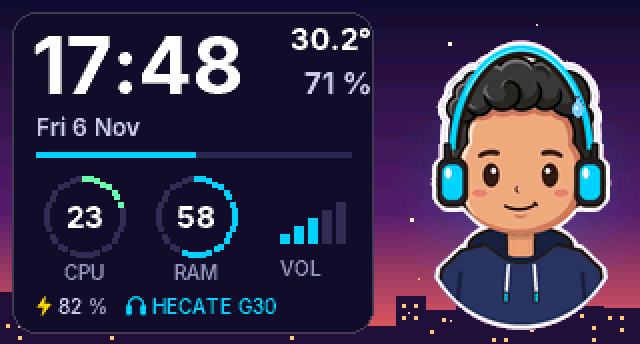
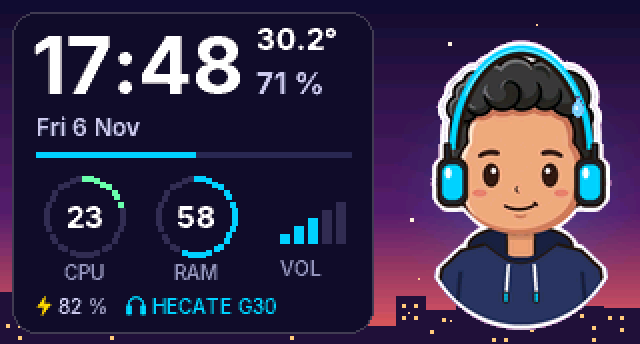
Phase 14-bis.4 : scène normale, température et humidité collées à l'heure
Le bloc se cale juste après l'heure réelle (largeur de f_heure, 81 à 121 px selon les chiffres), garde 12 px de marge avant le bord droit de la carte (x = 185) et prend la plus grande police qui tient (f_m, sinon f_s, sinon f_xs). Même règle dans les scènes calme et nuit (état de la clim en version courte s'il manque de la place). Banc de rendu : scénarios pire cas (00:00, 31.4°, 100 %, -5.2°) et contrôle de la marge ; 38 aperçus, 0 chevauchement.

Changed region(s): [[0.4062, 0.2035, 0.5938, 0.2907], [0.4062, 0.0581, 0.5938, 0.1453]]

diff --git a/esp/lib/ui.py b/esp/lib/ui.py
@@ -18,6 +18,7 @@ from polices import Police, rgb565
 
 DOSSIER = "assets/"
 W, H = 320, 172
+CARTE_DROITE = 185   # dernier pixel de la carte (fonds générés : carte de x = 7 à 185)
 PERSO_W, PERSO_H = 95, 150
 PERSO_X, PERSO_Y = W - PERSO_W - 12, H - PERSO_H - 6
 CLE = rgb565(255, 0, 255)  # magenta = transparent dans les images
@@ -521,28 +522,37 @@ class Interface:
         return "Room %.1f° • %d %%" % (piece[0], piece[1])
 
     def _coin_clim(self, etat, carte, y=8, discret=False, maintenant=0):
-        """À droite de l'heure : température et humidité de la pièce, en permanence (« --° » sans mesure).
-        discret=True (scènes calme et nuit) : plus petit, avec l'état de la clim en dessous."""
+        """Température et humidité de la pièce juste après l'heure (« --° » sans mesure), en permanence.
+        Le bloc est collé à l'heure réelle (largeur de f_heure) et garde 12 px de marge avant le bord
+        droit de la carte ; on prend la plus grande police qui tient. discret=True (scènes calme et
+        nuit) : plus petit, avec l'état de la clim en dessous (version courte s'il manque de la place)."""
         fb = self.fb
         piece = etat.get("piece")
-        droite = 186
+        lt = time.localtime()
+        heure = "%02d:%02d" % (lt[3], lt[4]) if lt[0] >= 2025 else "--:--"
+        gauche = 16 + self.f_heure.largeur(heure) + 6   # collé à l'heure
+        droite = CARTE_DROITE - 12                      # marge de 12 px au bord droit de la carte
+        temp = ("%.1f°" % piece[0]) if piece else "--°"
+        hum = ("%d %%" % piece[1]) if piece else None
+        polices = (self.f_s, self.f_xs) if discret else (self.f_m, self.f_s, self.f_xs)
+        police = polices[-1]
+        for p in polices:
+            if gauche + max(p.largeur(temp), p.largeur(hum) if hum else 0) <= droite:
+                police = p
+                break
+        ligne = y + 2
+        police.ecrire(fb, temp, gauche, ligne, DOUX if (piece and discret) else (BLANC if piece else GRIS), carte)
+        ligne += police.hauteur + 3
+        if hum:
+            police.ecrire(fb, hum, gauche, ligne, GRIS if discret else DOUX, carte)
+            ligne += police.hauteur + 3
         if not discret:
-            texte = ("%.1f°" % piece[0]) if piece else "--°"
-            self.f_m.ecrire(fb, texte, droite - self.f_m.largeur(texte), y + 2,
-                            BLANC if piece else GRIS, carte)
-            if piece:
-                texte = "%d %%" % piece[1]
-                self.f_m.ecrire(fb, texte, droite - self.f_m.largeur(texte), y + 24, DOUX, carte)
             return
-        texte = ("%.1f°" % piece[0]) if piece else "--°"
-        self.f_s.ecrire(fb, texte, droite - self.f_s.largeur(texte), y + 2, DOUX if piece else GRIS, carte)
-        if piece:
-            texte = "%d %%" % piece[1]
-            self.f_xs.ecrire(fb, texte, droite - self.f_xs.largeur(texte), y + 19, GRIS, carte)
         ac = self._ac_mini(etat, maintenant)
         if ac:
-            self.f_xs.ecrire(fb, ac, droite - self.f_xs.largeur(ac), y + 34,
-                             CYAN if ac != "AC off" else GRIS, carte)
+            if gauche + self.f_xs.largeur(ac) > droite:  # pas la place : « AC 23m » -> « 23m »
+                ac = ac[3:] if ac.startswith("AC ") else ac
+            self.f_xs.ecrire(fb, ac, gauche, ligne, CYAN if "off" not in ac else GRIS, carte)
 
     def _bandeau_clim(self, texte, y, carte):
         """Petite ligne discrète avec l'icône thermomètre (ligne du bas de la scène)."""

diff --git a/tools/render_scenes.py b/tools/render_scenes.py
@@ -20,6 +20,7 @@ RACINE = Path(__file__).resolve().parent.parent
 ESP = RACINE / "esp"
 SORTIE = RACINE / "tools" / "assets" / "apercus"
 W, H = 320, 172
+CARTE_DROITE = 185   # dernier pixel de la carte
 
 
 # ------------------------------------------------------------------ faux framebuf (numpy)
@@ -109,13 +110,14 @@ sys.modules["framebuf"] = framebuf
 # ------------------------------------------------------------------ horloge et heure simulées
 class Horloge:
     ms = 0
+    h, m = 17, 48      # heure affichée (modifiable par scénario)
 
 
 time.ticks_ms = lambda: Horloge.ms
 time.ticks_diff = lambda a, b: a - b
 time.ticks_add = lambda a, b: a + b
 HEURE = (2026, 11, 6, 17, 48, 30, 4, 310)
-time.localtime = lambda *a: HEURE
+time.localtime = lambda *a: (HEURE[0], HEURE[1], HEURE[2], Horloge.h, Horloge.m, HEURE[5], HEURE[6], HEURE[7])
 
 os.chdir(ESP)
 sys.path.insert(0, str(ESP / "lib"))
@@ -195,6 +197,11 @@ def verifier(interface, nom):
                 problemes.append(
                     f"chevauchement : {e1[1]!r} ({noms[id(e1[0])]} @{e1[2]},{e1[3]}) / "
                     f"{e2[1]!r} ({noms[id(e2[0])]} @{e2[2]},{e2[3]})")
+    # scènes normale / calme / nuit : le bloc pièce à droite de l'heure garde 12 px avant le bord de la carte
+    if nom.split("_")[0] in ("normal", "calme", "nuit"):
+        for e, m, d in masques:
+            if e[3] < 60 and e[2] >= 100 and m.any() and np.nonzero(m)[1].max() > CARTE_DROITE - 12:
+                problemes.append(f"marge < 12 px au bord droit : {e[1]!r} jusqu'à x={np.nonzero(m)[1].max()}")
     return problemes
 
 
@@ -233,6 +240,14 @@ def scenarios():
     liste.append(("normal_clim_froide_trop_chaude",
                   lambda: normal(piece=(30.2, 71.0, 997)), (1000, 6000)))
 
+    # pire cas : heure la plus large (00:00 = 121 px) ou la plus étroite (11:11), température à 2 chiffres
+    # + une décimale, humidité à 3 chiffres
+    liste.append(("normal_pire_heure_large", lambda: normal(piece=(31.4, 100.0, 997), clim=clim(reste=600, auto=True)),
+                  (1000, 6000), (0, 0)))
+    liste.append(("normal_pire_heure_etroite", lambda: normal(piece=(31.4, 100.0, 997)), (1000,), (11, 11)))
+    liste.append(("normal_sans_mesure_heure_large", lambda: normal(), (1000,), (0, 0)))
+    liste.append(("normal_negatif", lambda: normal(piece=(-5.2, 100.0, 997)), (1000,), (0, 0)))
+
     def calme(**kw):
         e = normal(**kw)
         e["evt"] = dict(e["evt"], inactif=31)
@@ -244,6 +259,10 @@ def scenarios():
         e = normal(**kw)
         e["evt"] = dict(e["evt"], verrou=1)
         return e
+    liste.append(("calme_pire_heure_large", lambda: calme(piece=(31.4, 100.0, 997), clim=clim(reste=600)),
+                  (1000, 6000), (0, 0)))
+    liste.append(("nuit_pire_heure_large", lambda: nuit(piece=(31.4, 100.0, 997), clim=clim(reste=2700, auto=True)),
+                  (1000,), (0, 0)))
     liste.append(("nuit_sans_clim", lambda: nuit(), (1000,)))
     liste.append(("nuit_clim", lambda: nuit(clim=clim(reste=2700, auto=True), piece=(24.1, 58.0, 997)), (1000,)))
 
@@ -270,7 +289,8 @@ def main():
         return
     SORTIE.mkdir(parents=True, exist_ok=True)
     total = 0
-    for nom, fabrique, instants in scenarios():
+    for nom, fabrique, instants, *heure in scenarios():
+        Horloge.h, Horloge.m = heure[0] if heure else (17, 48)
         for k, t in enumerate(instants):
             ecran = EcranFaux()
             interface = ui.Interface(ecran)
